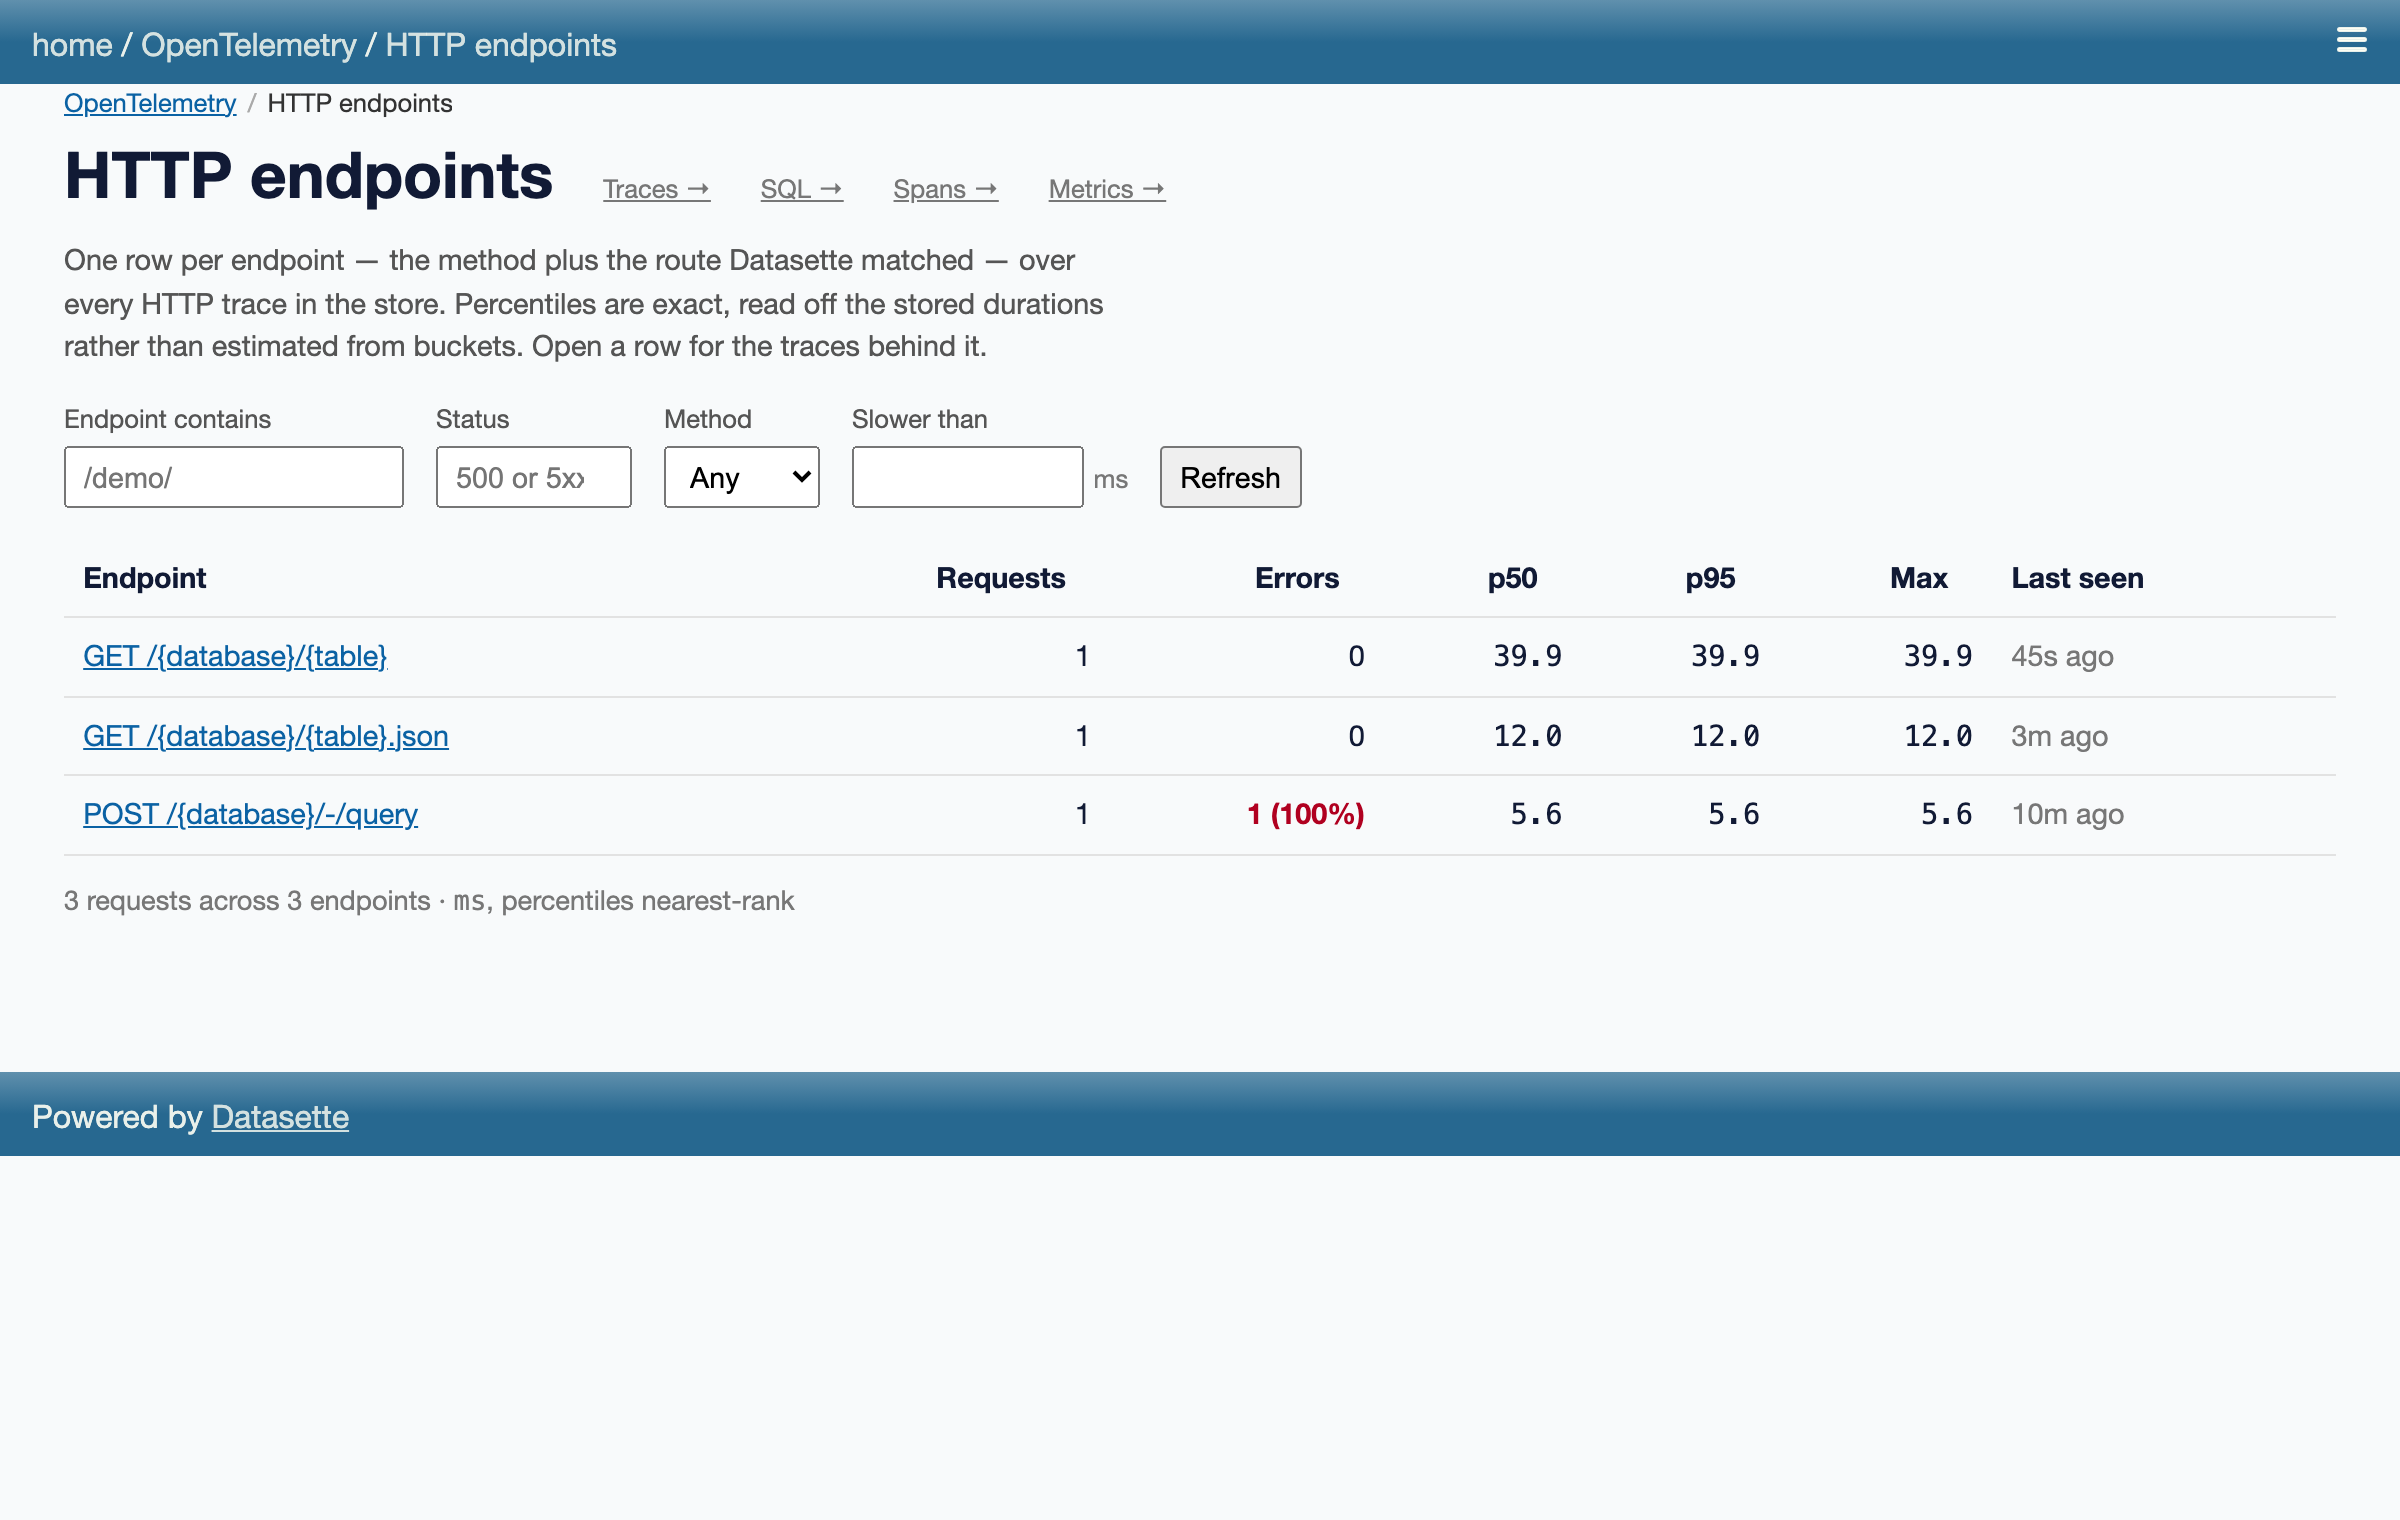
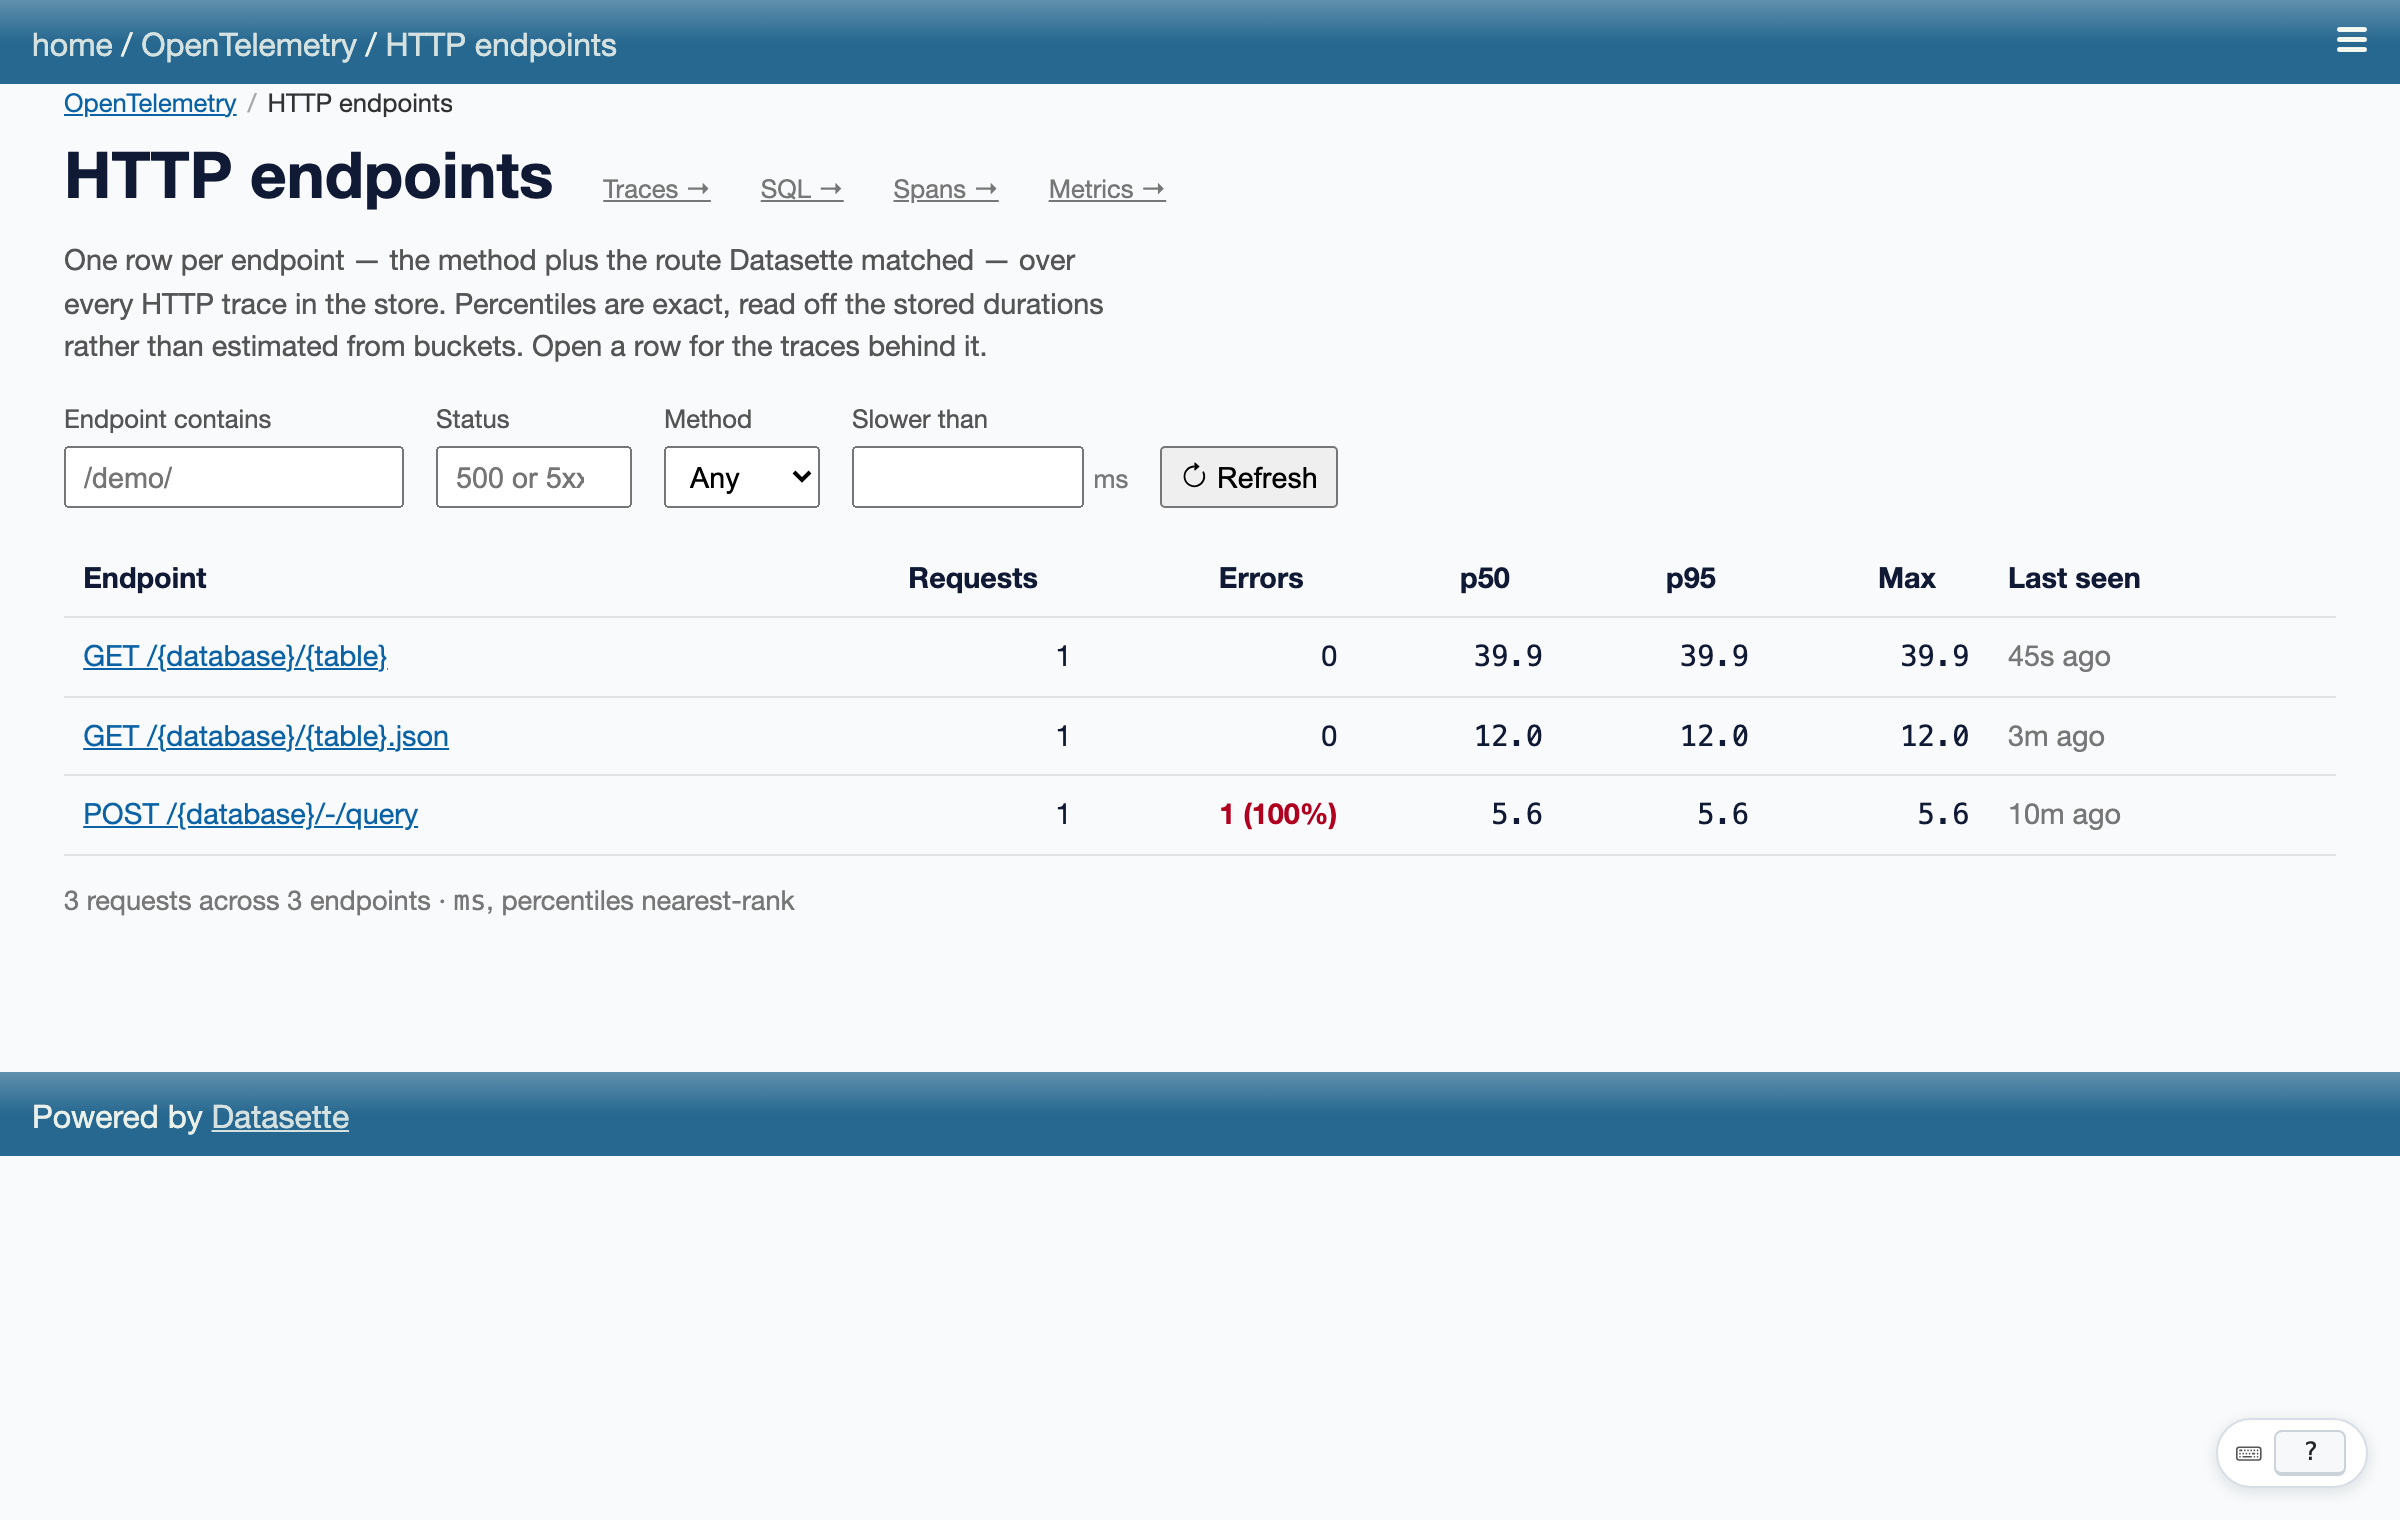
Write the README and refresh the screenshots
Modelled on datasette-otel-prometheus and datasette-otel-file-exporter:
install, a uvx one-liner, a tour of the viewer pages with screenshots,
privacy and permissions, an options reference, and how the plugin
behaves next to other OpenTelemetry setups. Images use absolute URLs so
they render on PyPI too.

diff --git a/README.md b/README.md
@@ -1,6 +1,131 @@
 # datasette-otel-viewer
 
-Browse the OpenTelemetry traces and metrics a Datasette instance emits, from
-inside that instance.
+Browse [Datasette's builtin OpenTelemetry traces and metrics](https://docs.datasette.io/en/latest/internals.html#internals-telemetry) from inside Datasette itself.
 
-Work in progress, blocked until OpenTelemetry support lands in Datasette, see https://github.com/simonw/datasette/pull/2862
+Datasette records a trace for every request, and a span for every SQL query, template render and plugin task, plus metrics like query durations and write queue depth. Normally you'd need to run Jaeger, Honeycomb or Grafana alongside Datasette to look at any of that. `datasette-otel-viewer` stores this instance's own spans and metrics in a SQLite database and adds a viewer at `/-/otel`: a trace list, span waterfalls, slowest endpoints and SQL statements, and metric charts. Nothing else runs, and nothing leaves the machine.
+
+![The traces list](https://raw.githubusercontent.com/datasette/datasette-otel-viewer/main/docs/screenshots/traces.png)
+
+## Installing
+
+This plugin requires [Datasette 1.0a41](https://github.com/simonw/datasette/releases/tag/1.0a41) or higher.
+
+```bash
+uv add datasette-otel-viewer
+```
+
+## Usage
+
+A one-liner with [`uvx`](https://docs.astral.sh/uv/guides/tools/):
+
+```bash
+uvx --prerelease=allow \
+  --with datasette-otel-viewer \
+  --with 'datasette>=1a41' \
+  datasette my_data.db --root
+```
+
+Open the link `--root` prints, click around for a bit, then pick **OpenTelemetry** from the menu, or go to `/-/otel`. No config is needed. Spans and metrics go to `otel.db` in the current directory, which keeps the last 72 hours and at most 100,000 spans.
+
+The viewer is private by default. See [Privacy and permissions](#privacy-and-permissions) for how to let other users in.
+
+## What's in the viewer
+
+**Traces** (`/-/otel/traces`) lists one row per trace, labelled by the request or task that started it. You can sort by duration or error count and filter by what started the trace. The list is sorted and paged over the whole store, and the URL holds the state, so "slowest traces this morning" is a link you can share.
+
+**Trace waterfall** (`/-/otel/traces/<trace_id>`) shows every span in a trace on a timeline. Selecting a span opens an inspector with its attributes, including the SQL it ran. Runs of repeated sibling spans, like fifty `db.query` calls in a row, are folded into one row until you open them. **All spans like this** compares the span with every other span of the same kind.
+
+![A trace waterfall with the span inspector open](https://raw.githubusercontent.com/datasette/datasette-otel-viewer/main/docs/screenshots/trace.png)
+
+**HTTP endpoints** (`/-/otel/http`) groups requests by method and route, with request counts, errors, and exact p50/p95/max durations. A row opens the traces behind it.
+
+![HTTP endpoint summary](https://raw.githubusercontent.com/datasette/datasette-otel-viewer/main/docs/screenshots/http.png)
+
+**SQL queries** (`/-/otel/sql`) groups statements by database, ordered by total time. A cheap query that runs ten thousand times can cost more than a slow one that runs twice, and this is where that shows up. Reads and writes are told apart, and callback-style reads like `execute_fn()` are counted under the callback's name.
+
+![SQL query summary](https://raw.githubusercontent.com/datasette/datasette-otel-viewer/main/docs/screenshots/sql.png)
+
+**Spans** (`/-/otel/spans`) lists every kind of span recorded, grouped by name and the library or plugin that emitted it. Plugins that add their own spans show up here without any setup. `?split_by=<attribute>` breaks a row down by an attribute's values, for example a `datasette_cron.run` span split by task. A row opens the matching spans with a duration scatter plot of all of them.
+
+![Span catalogue](https://raw.githubusercontent.com/datasette/datasette-otel-viewer/main/docs/screenshots/spans.png)
+
+**Metrics** (`/-/otel/metrics`) lists every stored metric, and each one has a chart page: lines for gauges and counters, with a per-second rate for counters, and a heatmap plus p50/p90/p99 lines for histograms. Metrics are stored once a minute.
+
+![A histogram metric: bucket heatmap and percentiles](https://raw.githubusercontent.com/datasette/datasette-otel-viewer/main/docs/screenshots/metric.png)
+
+Every page can be driven from the keyboard: press `?` for the shortcuts.
+
+The data behind all of this is in ordinary Datasette tables (`traces`, `spans`, `metrics`, `metric_points` in the `otel` database), so facets, the JSON API and your own SQL work on it too.
+
+## Privacy and permissions
+
+The store holds the text of every SQL query Datasette runs. On a public instance that includes SQL typed by visitors, literals and all, as well as URL paths and other request details. Datasette never records SQL parameter values, only how many there were. Treat `otel.db` with the same care as your databases.
+
+So the viewer and the raw tables are private by default. Viewing either requires the `datasette-otel-viewer` permission, which `--root` has. To grant it to an actor:
+
+```yaml
+# datasette.yaml
+permissions:
+  datasette-otel-viewer:
+    id: alex
+```
+
+`public_viewer: true` opens the viewer pages and their JSON API to everyone. The raw `otel` tables stay private even then.
+
+## Reference
+
+### Options
+
+```yaml
+# datasette.yaml
+plugins:
+  datasette-otel-viewer:
+    retention_hours: 24
+    service_name: my-datasette
+```
+
+| option | default | description |
+|---|---|---|
+| `self_traces` | `true` | Store the spans this instance emits. `false` leaves an existing store browsable without adding to it. |
+| `self_metrics` | `true` | Store this instance's metrics. |
+| `public_viewer` | `false` | Open the viewer pages and API to everyone. The raw tables stay private. |
+| `retention_hours` | `72` | Whole traces and metric points older than this are deleted. |
+| `max_spans` | `100000` | Past this many spans, the oldest whole traces are deleted. |
+| `max_metric_points` | `100000` | Past this many metric points, the oldest are deleted. |
+| `db_path` | `otel.db` | SQLite file for the store, created if missing. |
+| `db_name` | `otel` | Name the store is served under, as in `/otel/spans`. |
+| `service_name` | `datasette` | `service.name` on stored spans and metrics. |
+
+Unknown options and invalid values fail at startup, e.g. `Error: Invalid plugins.datasette-otel-viewer config: public_veiwer: Extra inputs are not permitted`.
+
+Some behavior to be aware of:
+
+- Deletes happen at most once a minute, a whole trace at a time, so a trace is never shown with some of its spans missing.
+- Spans take a second or two to show up. They're written by a background task about once a second, and once more when Datasette shuts down.
+- One-off commands such as `datasette --get` don't write anything.
+
+### Using alongside other OpenTelemetry setups
+
+To store its own spans, the plugin has to install the OpenTelemetry `TracerProvider` itself, when it is first imported. Writing a span to the store runs SQL, and that SQL would produce more spans to store, forever. The plugin's provider drops spans from its own writes, and only a provider it installed can do that. If another provider is already installed, for example because Datasette runs under `opentelemetry-instrument`, the plugin prints a warning and stops storing spans. The viewer keeps working on whatever is already in the store.
+
+Metrics don't have that problem. If another `MeterProvider` is already installed, the plugin adds its reader to that one and keeps storing metrics.
+
+With [datasette-otel-file-exporter](https://github.com/datasette/datasette-otel-file-exporter) or [datasette-otel-prometheus](https://github.com/datasette/datasette-otel-prometheus) installed too, whichever plugin loads first installs its provider, and that decides what works:
+
+- **datasette-otel-file-exporter:** if this plugin loads first, the exporter adds itself to this plugin's provider and both work. If the exporter loads first, spans are exported to files but not stored here.
+- **datasette-otel-prometheus:** if it loads first, this plugin adds its reader to its provider and both work. If this plugin loads first, Prometheus is served no metrics.
+
+Both cases print a warning to stderr at startup.
+
+## Development
+
+```bash
+uv sync && npm install --prefix frontend
+just types      # regenerate TypeScript types from the Python models
+just frontend   # build the frontend into the package
+just test       # pytest
+just dev        # a demo instance on :8012
+just shots      # regenerate the screenshots in docs/screenshots/
+```
+
+For hot reload, run `just frontend-dev` in one terminal and `just dev-with-hmr` in another. `NOTES.md` has the longer design notes, and `CLAUDE.md` has a map of the code.
